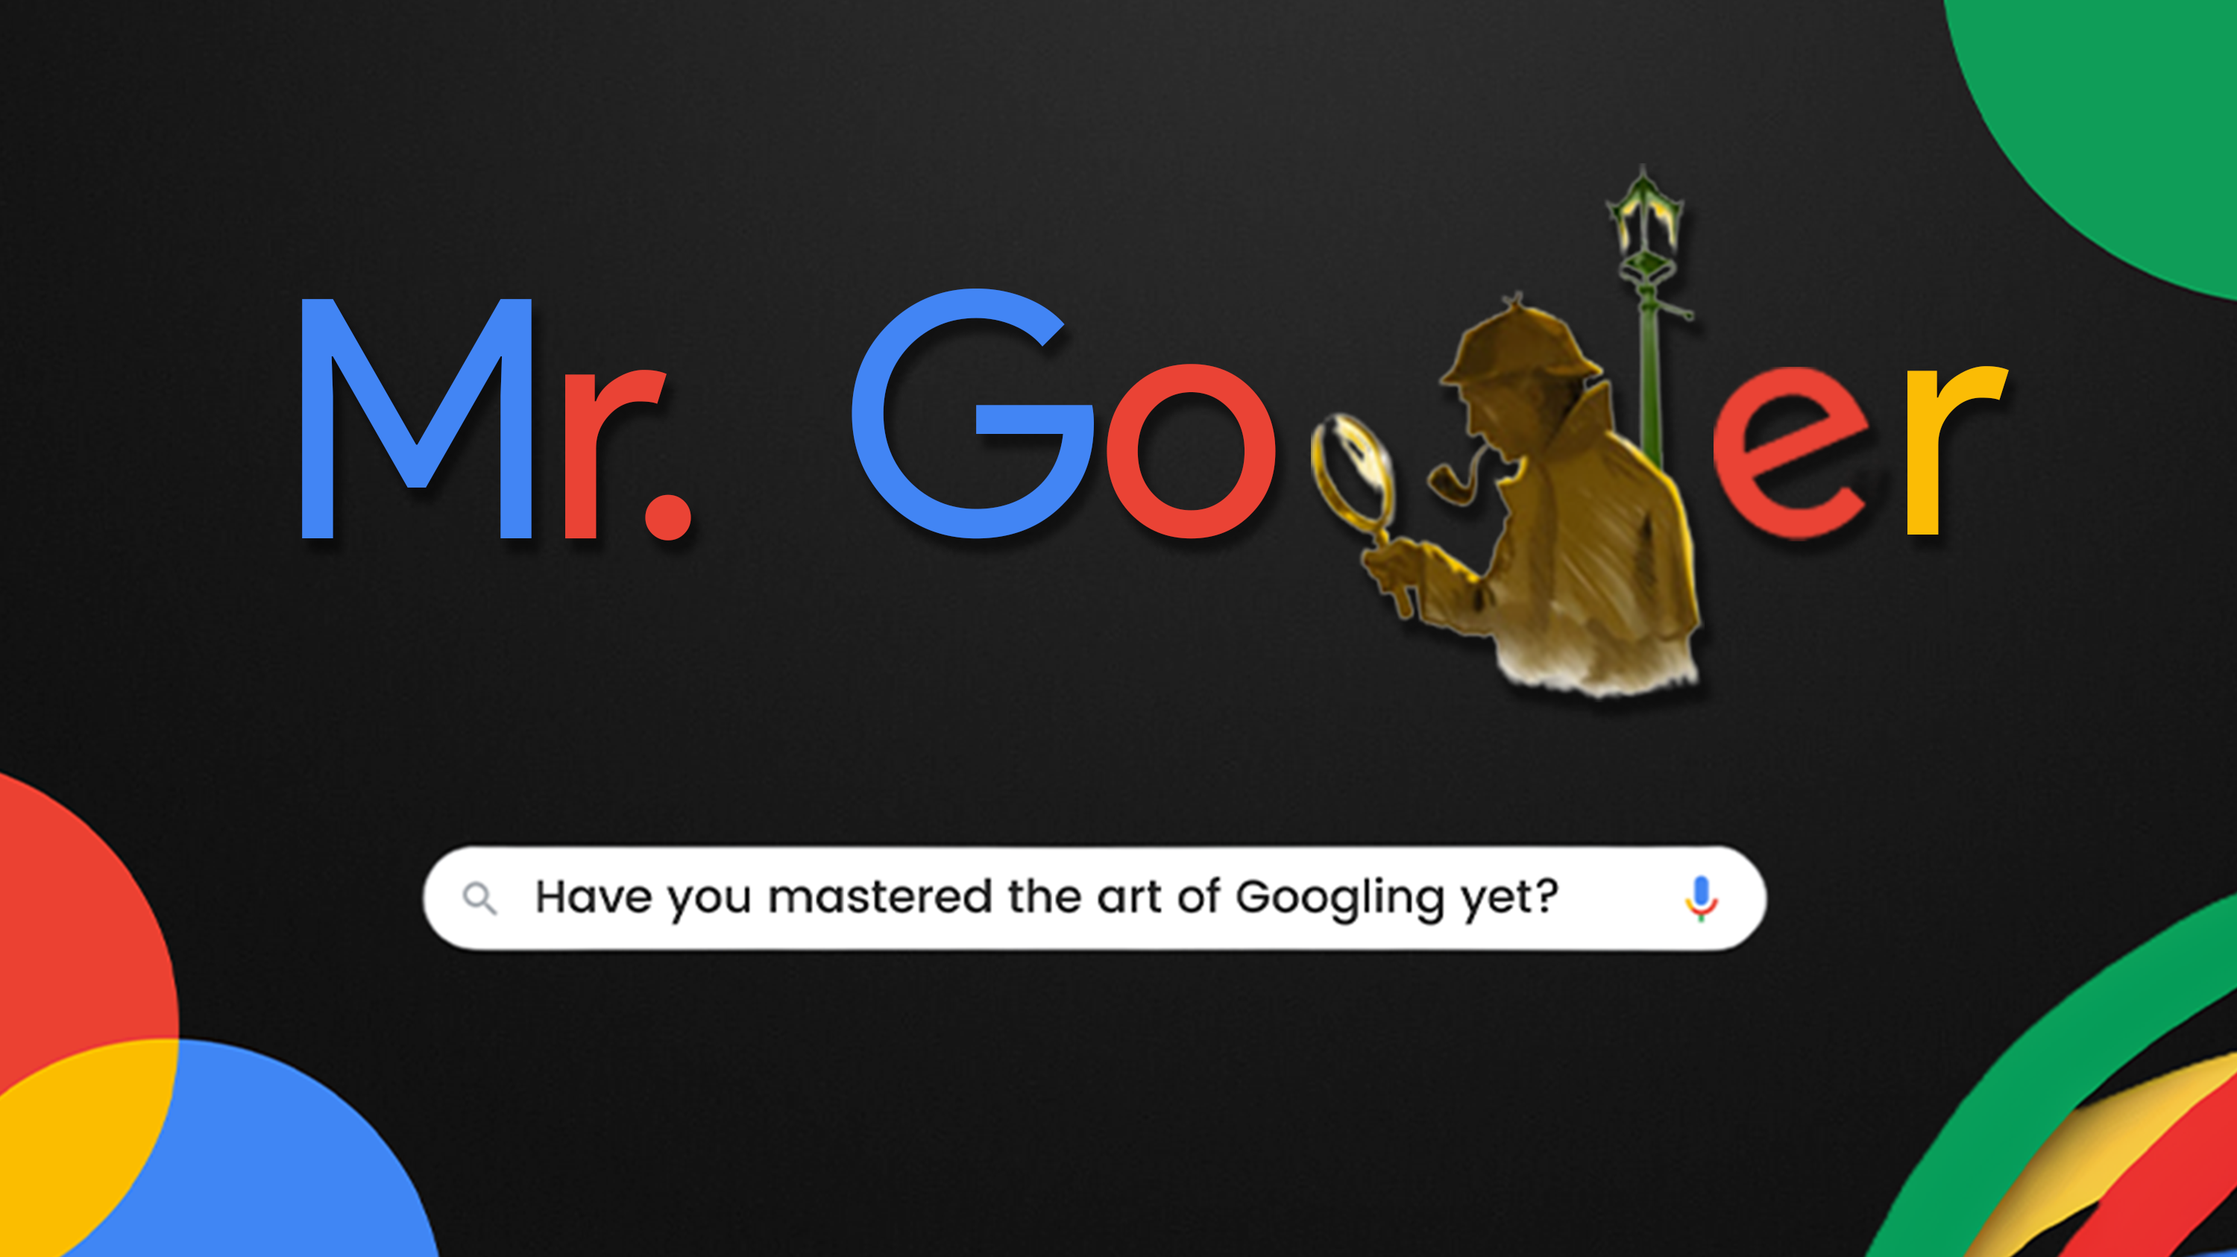
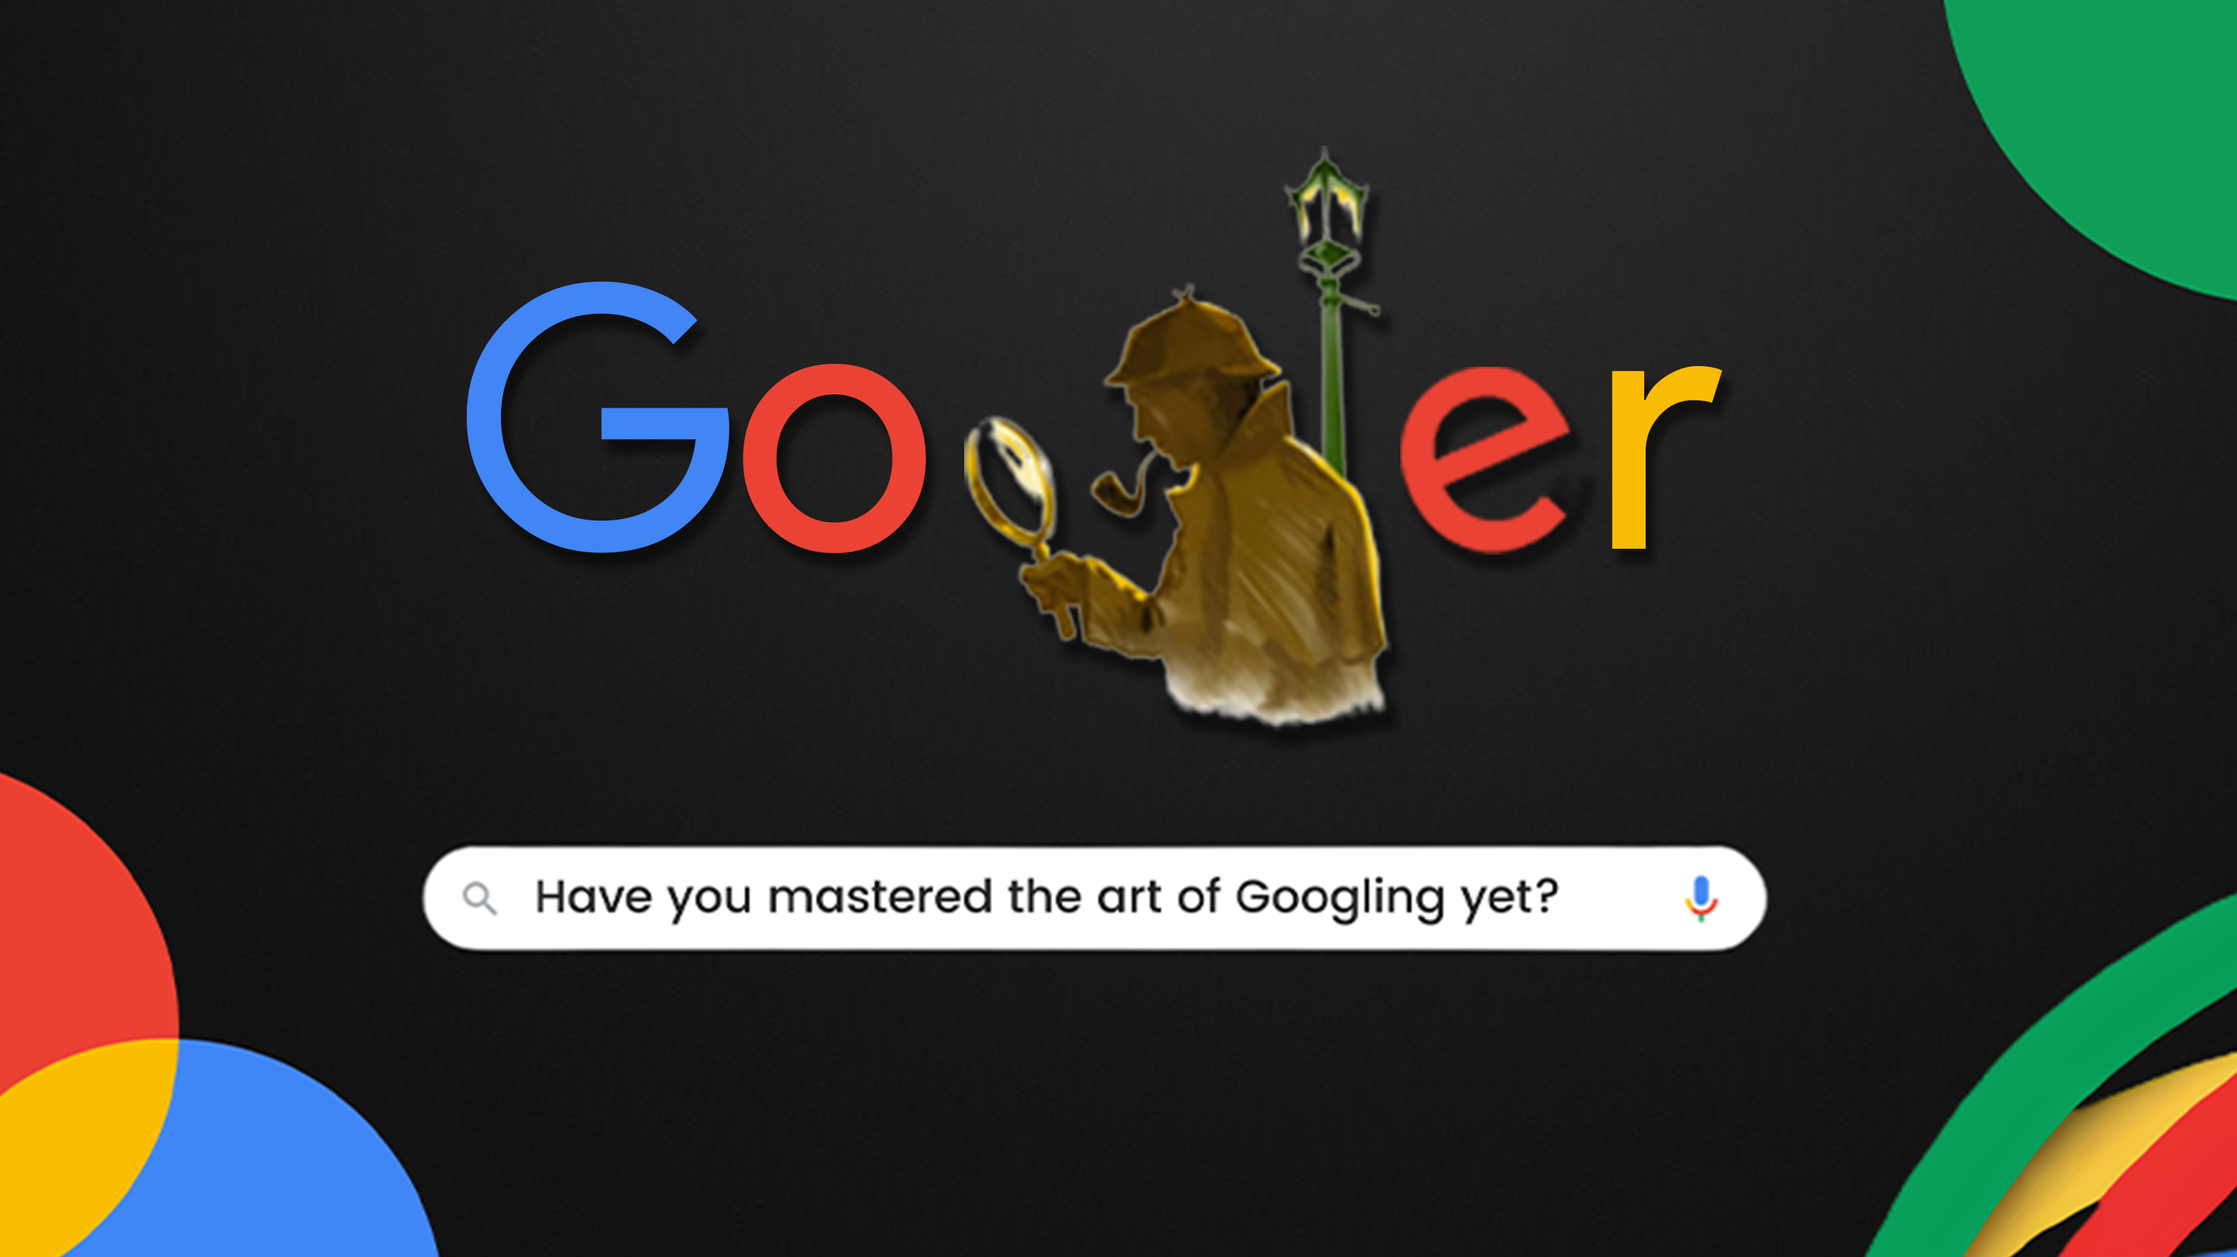
Index and Events Page related updates 1/11/21

Changed region(s): [[0.124, 0.1234, 0.899, 0.586]]

diff --git a/index.html b/index.html
@@ -168,21 +168,17 @@
             
             <!-- START: Image Slider -->
             <div class="sinuv-image-slider" data-autoplay="8000">
-                                               
+                
                 <div class="sinuv-image-slider-item">
-                    <img src="assets/images/Abstruse_Banner.png" alt="" class="sinuv-image-slider-img" data-thumb="assets/images/Abstruse_Thumb.png">
+                    <img src="assets/images/ErrorStack_Banner.png" alt="" class="sinuv-image-slider-img" data-thumb="assets/images/ErrorStack_Thumb.png">
                     
                     <div class="sinuv-image-slider-content">
                         
-                        <h3 class="h4">Abstruse</h3>
-                        <p class="text-white">Abstruse is an online cryptic hunt which poses as a mind-boggling challenge for any problem solver. 
-                            It is a four day event full of cryptic puzzles and conundrums covering a wide spectrum of topics. Hosted on the main 
-                            website of siNUsoid, the participants can use any tool to solve the problem. Based on a spectrum of topics : from 
-                            prehistory to the future, from technology to pop culture and many more, cryptic hunt requires the participant to solve 
-                            different levels using hints from different parts of the page. The one to solve maximum number of questions in the 
-                            minimum time wins.
-                        </p>
-                        <a href="abstruse.html" class="sinuv-btn sinuv-btn-rounded sinuv-btn-color-white sinuv-btn-hover-color-main-1">Read More</a>
+                        <h3 class="h4">ErrorStack</h3>
+                        <p class="text-white">ErrorStack is an online event to test your debugging skills, requiring a portrayal 
+                            of an innate understanding of programming logic and an eye for details that shall assist you in debugging 
+                            a program written in an unconventional language.</p>
+                        <a href="error-stack.html" class="sinuv-btn sinuv-btn-rounded sinuv-btn-color-white sinuv-btn-hover-color-main-1">Read More</a>
                         
                     </div>
                     
@@ -209,9 +205,9 @@
                     
                     <div class="sinuv-image-slider-content">
                         
-                        <h3 class="h4">Mr. Googler</h3>
+                        <h3 class="h4">Googler</h3>
                         <p class="text-white">In an age where the name of a search engine has been included as a verb in the Oxford
-                            Dictionary, Mr. Googler is an event that shall test your proficiency in the art of ‘googling’. In
+                            Dictionary, Googler is an event that shall test your proficiency in the art of ‘googling’. In
                             this open 'google' test, simple googling may fail you. For those of you who have an eye for detail
                             and have mastered the art of googling, this event is the perfect opportunity to flaunt your skills.
                             So intellectuals, go Google!</p>
@@ -221,20 +217,7 @@
                     
                 </div>
                 
-                <div class="sinuv-image-slider-item">
-                    <img src="assets/images/ErrorStack_Banner.png" alt="" class="sinuv-image-slider-img" data-thumb="assets/images/ErrorStack_Thumb.png">
-                    
-                    <div class="sinuv-image-slider-content">
-                        
-                        <h3 class="h4">ErrorStack</h3>
-                        <p class="text-white">ErrorStack is an online event to test your debugging skills, requiring a portrayal 
-                            of an innate understanding of programming logic and an eye for details that shall assist you in debugging 
-                            a program written in an unconventional language.</p>
-                        <a href="error-stack.html" class="sinuv-btn sinuv-btn-rounded sinuv-btn-color-white sinuv-btn-hover-color-main-1">Read More</a>
-                        
-                    </div>
-                    
-                </div>
+                
 
                 <div class="sinuv-image-slider-item">
                     <img src="assets/images/Respawn_Banner.png" alt="" class="sinuv-image-slider-img" data-thumb="assets/images/Respawn_Thumb.png">
@@ -247,6 +230,25 @@
                             opponents at their own game. Pro teams from all over the country compete for rewards and more
                             importantly, bragging rights. It does not matter how many times you get killed, it’s how well you
                             respawn.</p>
+                        
+                    </div>
+                    
+                </div>
+
+                <div class="sinuv-image-slider-item">
+                    <img src="assets/images/Abstruse_Banner.png" alt="" class="sinuv-image-slider-img" data-thumb="assets/images/Abstruse_Thumb.png">
+                    
+                    <div class="sinuv-image-slider-content">
+                        
+                        <h3 class="h4">Abstruse</h3>
+                        <p class="text-white">Abstruse is an online cryptic hunt which poses as a mind-boggling challenge for any problem solver. 
+                            It is a four day event full of cryptic puzzles and conundrums covering a wide spectrum of topics. Hosted on the main 
+                            website of siNUsoid, the participants can use any tool to solve the problem. Based on a spectrum of topics : from 
+                            prehistory to the future, from technology to pop culture and many more, cryptic hunt requires the participant to solve 
+                            different levels using hints from different parts of the page. The one to solve maximum number of questions in the 
+                            minimum time wins.
+                        </p>
+                        <a href="abstruse.html" class="sinuv-btn sinuv-btn-rounded sinuv-btn-color-white sinuv-btn-hover-color-main-1">Read More</a>
                         
                     </div>
                     
@@ -292,23 +294,18 @@
                             <div class="col-md-6">
                                 <!-- START: Post -->
                                 <div class="sinuv-blog-post">
-                                    <a href="abstruse.html" class="sinuv-post-img">
-                                        <img src="assets/images/Abstruse_Upcoming.png" alt="Abstruse">
+                                    <a href="microsoft-workshop.html" class="sinuv-post-img">
+                                        <img src="assets/images/Microsoft_Banner.png" alt="Microsoft">
                                     </a>
                                     <div class="sinuv-gap"></div>
-                                    <h2 class="sinuv-post-title h4"><a href="abstruse.html">Abstruse</a></h2>
+                                    <h2 class="sinuv-post-title h4"><a href="microsoft-workshop.html">Microsoft Workshop</a></h2>
                                     <div class="sinuv-gap"></div>
                                     <div class="sinuv-post-text">
-                                        <p>“Life is a continuous exercise in creative problem solving”, this quote resonates well with the event 
-                                            we at siNUsoid bring to you. Abstruse is an online cryptic hunt for all the problem solvers out there. 
-                                            It is filled with puzzles which stimulate your brain. The one who can 
-                                            solve the maximum number of questions in the minimum time wins. If hunting and solving problems is 
-                                            your nature then this event invites you to accept the challenge and showcase your innate capabilities 
-                                            of penetrating the tough situations.
+                                        <p>siNUsoid V5 is proud to present you with a workshop that’s going to be conducted by Microsoft. Learning about cloud computing, different features of Microsoft, career opportunities, internship opportunities and some galvanic and cultivated discussions on various topics is something that every aspiring engineer is looking for.
                                         </p>
                                     </div>
                                     <div class="sinuv-gap"></div>
-                                    <a href="abstruse.html" class="sinuv-btn sinuv-btn-rounded sinuv-btn-color-dark-3 sinuv-btn-hover-color-main-1">Read More</a>
+                                    <a href="microsoft-workshop.html" class="sinuv-btn sinuv-btn-rounded sinuv-btn-color-dark-3 sinuv-btn-hover-color-main-1">Read More</a>
                                 </div>
                                 <!-- END: Post -->
                             </div>
@@ -320,12 +317,12 @@
                                         <img src="assets/images/Googler.png" alt="The Googler">
                                     </a>
                                     <div class="sinuv-gap"></div>
-                                    <h2 class="sinuv-post-title h4"><a href="googler.html">The Googler</a></h2>
+                                    <h2 class="sinuv-post-title h4"><a href="googler.html">Googler</a></h2>
                                     <div class="sinuv-gap"></div>
                                     <div class="sinuv-post-text">
                                         <p>Googler is an event that shall test your proficiency in the art of ‘googling’. In
                                             this open 'google' test, simple googling may fail you. For those of you who have mastered 
-                                            the art of googling, this event is the perfect opportunity to flaunt your skills.<br><br><br><br><br><br><br>
+                                            the art of googling, this event is the perfect opportunity to flaunt your skills.<br><br><br><br>
                                         </p>
                                     </div>
                                     <div class="sinuv-gap"></div>
@@ -487,11 +484,11 @@
                                 </div>
                                 
                                 <div class="sinuv-widget-post">
-                                    <a href="abstruse.html" target="_blank" class="sinuv-post-image">
-                                        <img src="assets/images/Abstruse_Thumb.png" alt="Abstruse Registrations">
+                                    <a href="microsoft-workshop.html" target="_blank" class="sinuv-post-image">
+                                        <img src="assets/images/Microsoft_Thumb.png" alt="Microsoft">
                                     </a>
-                                    <h3 class="sinuv-post-title"><a href="abstruse.html" target="_blank">Abstruse</a></h3>
-                                    <div class="sinuv-product-price"><a href="abstruse.html" target="_blank">Register Now</a></div>
+                                    <h3 class="sinuv-post-title"><a href="microsoft-workshop.html" target="_blank">Microsoft Workshop</a></h3>
+                                    <div class="sinuv-product-price"><a href="microsoft-workshop.html" target="_blank">Register Now</a></div>
                                 </div>
                                 
                                 <div class="sinuv-widget-post">

diff --git a/events.html b/events.html
@@ -196,26 +196,6 @@
                                
                 <div class="col-lg-6">
                     <div class="sinuv-product-cat-2">
-                        <a class="sinuv-product-image" href="abstruse.html">
-                            <img src="assets/images/Abstruse_Thumb.png" alt="Abstruse">
-                        </a>
-                        <div class="sinuv-product-cont text-white">
-                            <h3 class="sinuv-product-title h5"><a href="abstruse.html">Absturse</a></h3>
-                            <div class="sinuv-gap-1"></div>
-                            <!-- <div class="sinuv-product-rating" data-rating="5"> <i class="fa fa-star"></i> <i class="fa fa-star"></i> <i class="fa fa-star"></i> <i class="fa fa-star"></i> <i class="fa fa-star"></i></div> -->
-                            <div class="sinuv-gap-1"></div>
-                            <div class="sinuv-gap-1"></div>
-                            Abstruse is an online cryptic hunt which poses as a mind-boggling challenge for any problem solver. 
-                            Participants are required to solve different levels using hints from different parts of the page. 
-                            Solve maximum no. of questions in the minimum time to win.
-                            <div class="sinuv-gap-1"></div>
-                            <a href="abstruse.html" class="sinuv-btn sinuv-btn-rounded sinuv-btn-color-dark-3 sinuv-btn-hover-color-main-1">View More</a>
-                        </div>
-                    </div>
-                </div>
-                
-                <div class="col-lg-6">
-                    <div class="sinuv-product-cat-2">
                         <a class="sinuv-product-image" href="hackatronics.html">
                             <img src="assets/images/Hackatronics_Thumb.png" alt="Hackatronics">
                         </a>
@@ -255,15 +235,15 @@
                 <div class="col-lg-6">
                     <div class="sinuv-product-cat-2">
                         <a class="sinuv-product-image" href="googler.html">
-                            <img src="assets/images/Googler_Thumb.png" alt="Mr. Googler">
+                            <img src="assets/images/Googler_Thumb.png" alt="Googler">
                         </a>
                         <div class="sinuv-product-cont text-white">
-                            <h3 class="sinuv-product-title h5"><a href="googler.html">Mr. Googler</a></h3>
+                            <h3 class="sinuv-product-title h5"><a href="googler.html">Googler</a></h3>
                             <div class="sinuv-gap-1"></div>
                             <!-- <div class="sinuv-product-rating" data-rating="5"> <i class="fa fa-star"></i> <i class="fa fa-star"></i> <i class="fa fa-star"></i> <i class="fa fa-star"></i> <i class="fa fa-star"></i></div> -->
                             <div class="sinuv-gap-1"></div>
                             <div class="sinuv-gap-1"></div>
-                            Mr. Googler is an event that shall test your proficiency in the art of ‘googling’. In
+                            Googler is an event that shall test your proficiency in the art of ‘googling’. In
                             this open 'google' test, simple googling may fail you. For those of you who have mastered 
                             the art of googling, this event is the perfect opportunity to flaunt your skills.
                             <div class="sinuv-gap-1"></div>
@@ -499,26 +479,6 @@
                             BioMaze is a biology-based quiz for all the Bio Nerds. The topics of the quiz revolve around preliminary biologies such as ecology and environment and general knowledge questions. So come test your bio knowledge and win amazing prizes!!
                             <div class="sinuv-gap-1"></div>
                             <a href="biomaze.html" class="sinuv-btn sinuv-btn-rounded sinuv-btn-color-dark-3 sinuv-btn-hover-color-main-1">View More</a>
-                        </div>
-                    </div>
-                </div>
-                
-                <div class="col-lg-6">
-                    <div class="sinuv-product-cat-2">
-                        <a class="sinuv-product-image">
-                            <img src="assets/images/Respawn_Thumb.png" alt="Re:Spawn">
-                        </a>
-                        <div class="sinuv-product-cont text-white">
-                            <h3 class="sinuv-product-title h5"><a style="cursor: pointer;">Re:Spawn</a></h3>
-                            <div class="sinuv-gap-1"></div>
-                            <!-- <div class="sinuv-product-rating" data-rating="5"> <i class="fa fa-star"></i> <i class="fa fa-star"></i> <i class="fa fa-star"></i> <i class="fa fa-star"></i> <i class="fa fa-star"></i></div> -->
-                            <div class="sinuv-gap-1"></div>
-                            <div class="sinuv-gap-1"></div>
-                            The ultimate gaming event for all those of you who have been told that gaming is a waste of
-                            time. Team up with your friends and beat opponents at their own game. It does not matter how 
-                            many times you get killed, it’s how well you respawn.
-                            <div class="sinuv-gap-1"></div>
-                            <a class="sinuv-btn sinuv-btn-rounded sinuv-btn-color-dark-3 sinuv-btn-hover-color-main-1">View More</a>
                         </div>
                     </div>
                 </div>
